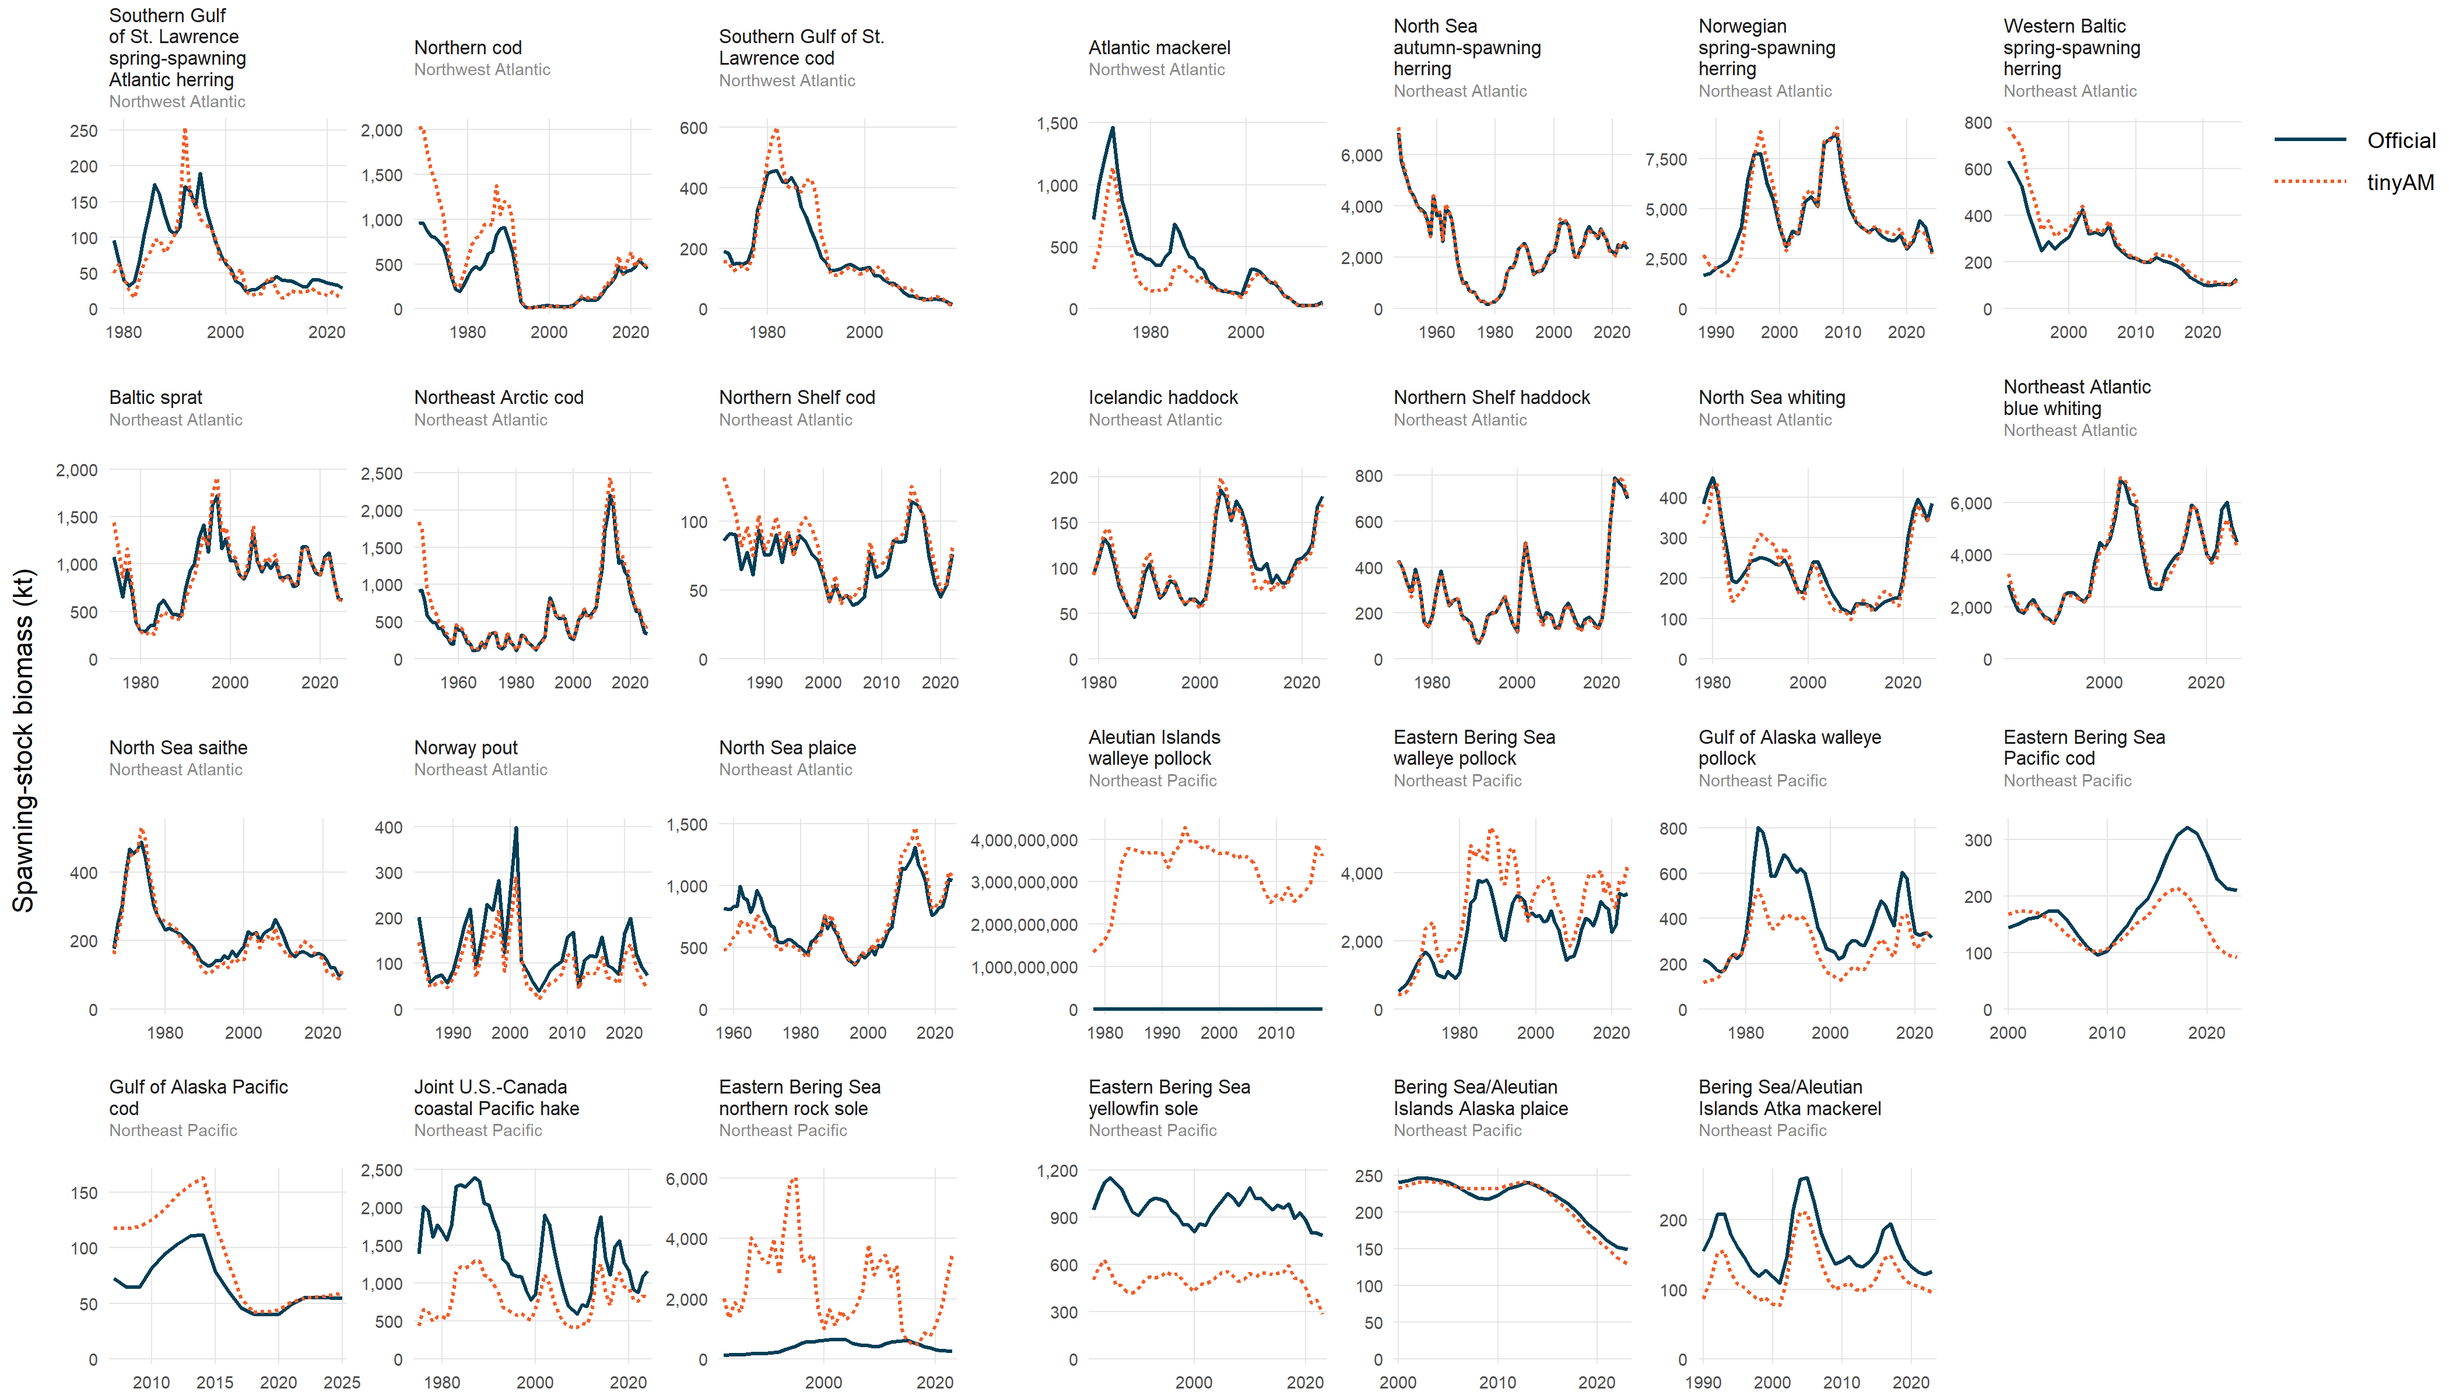
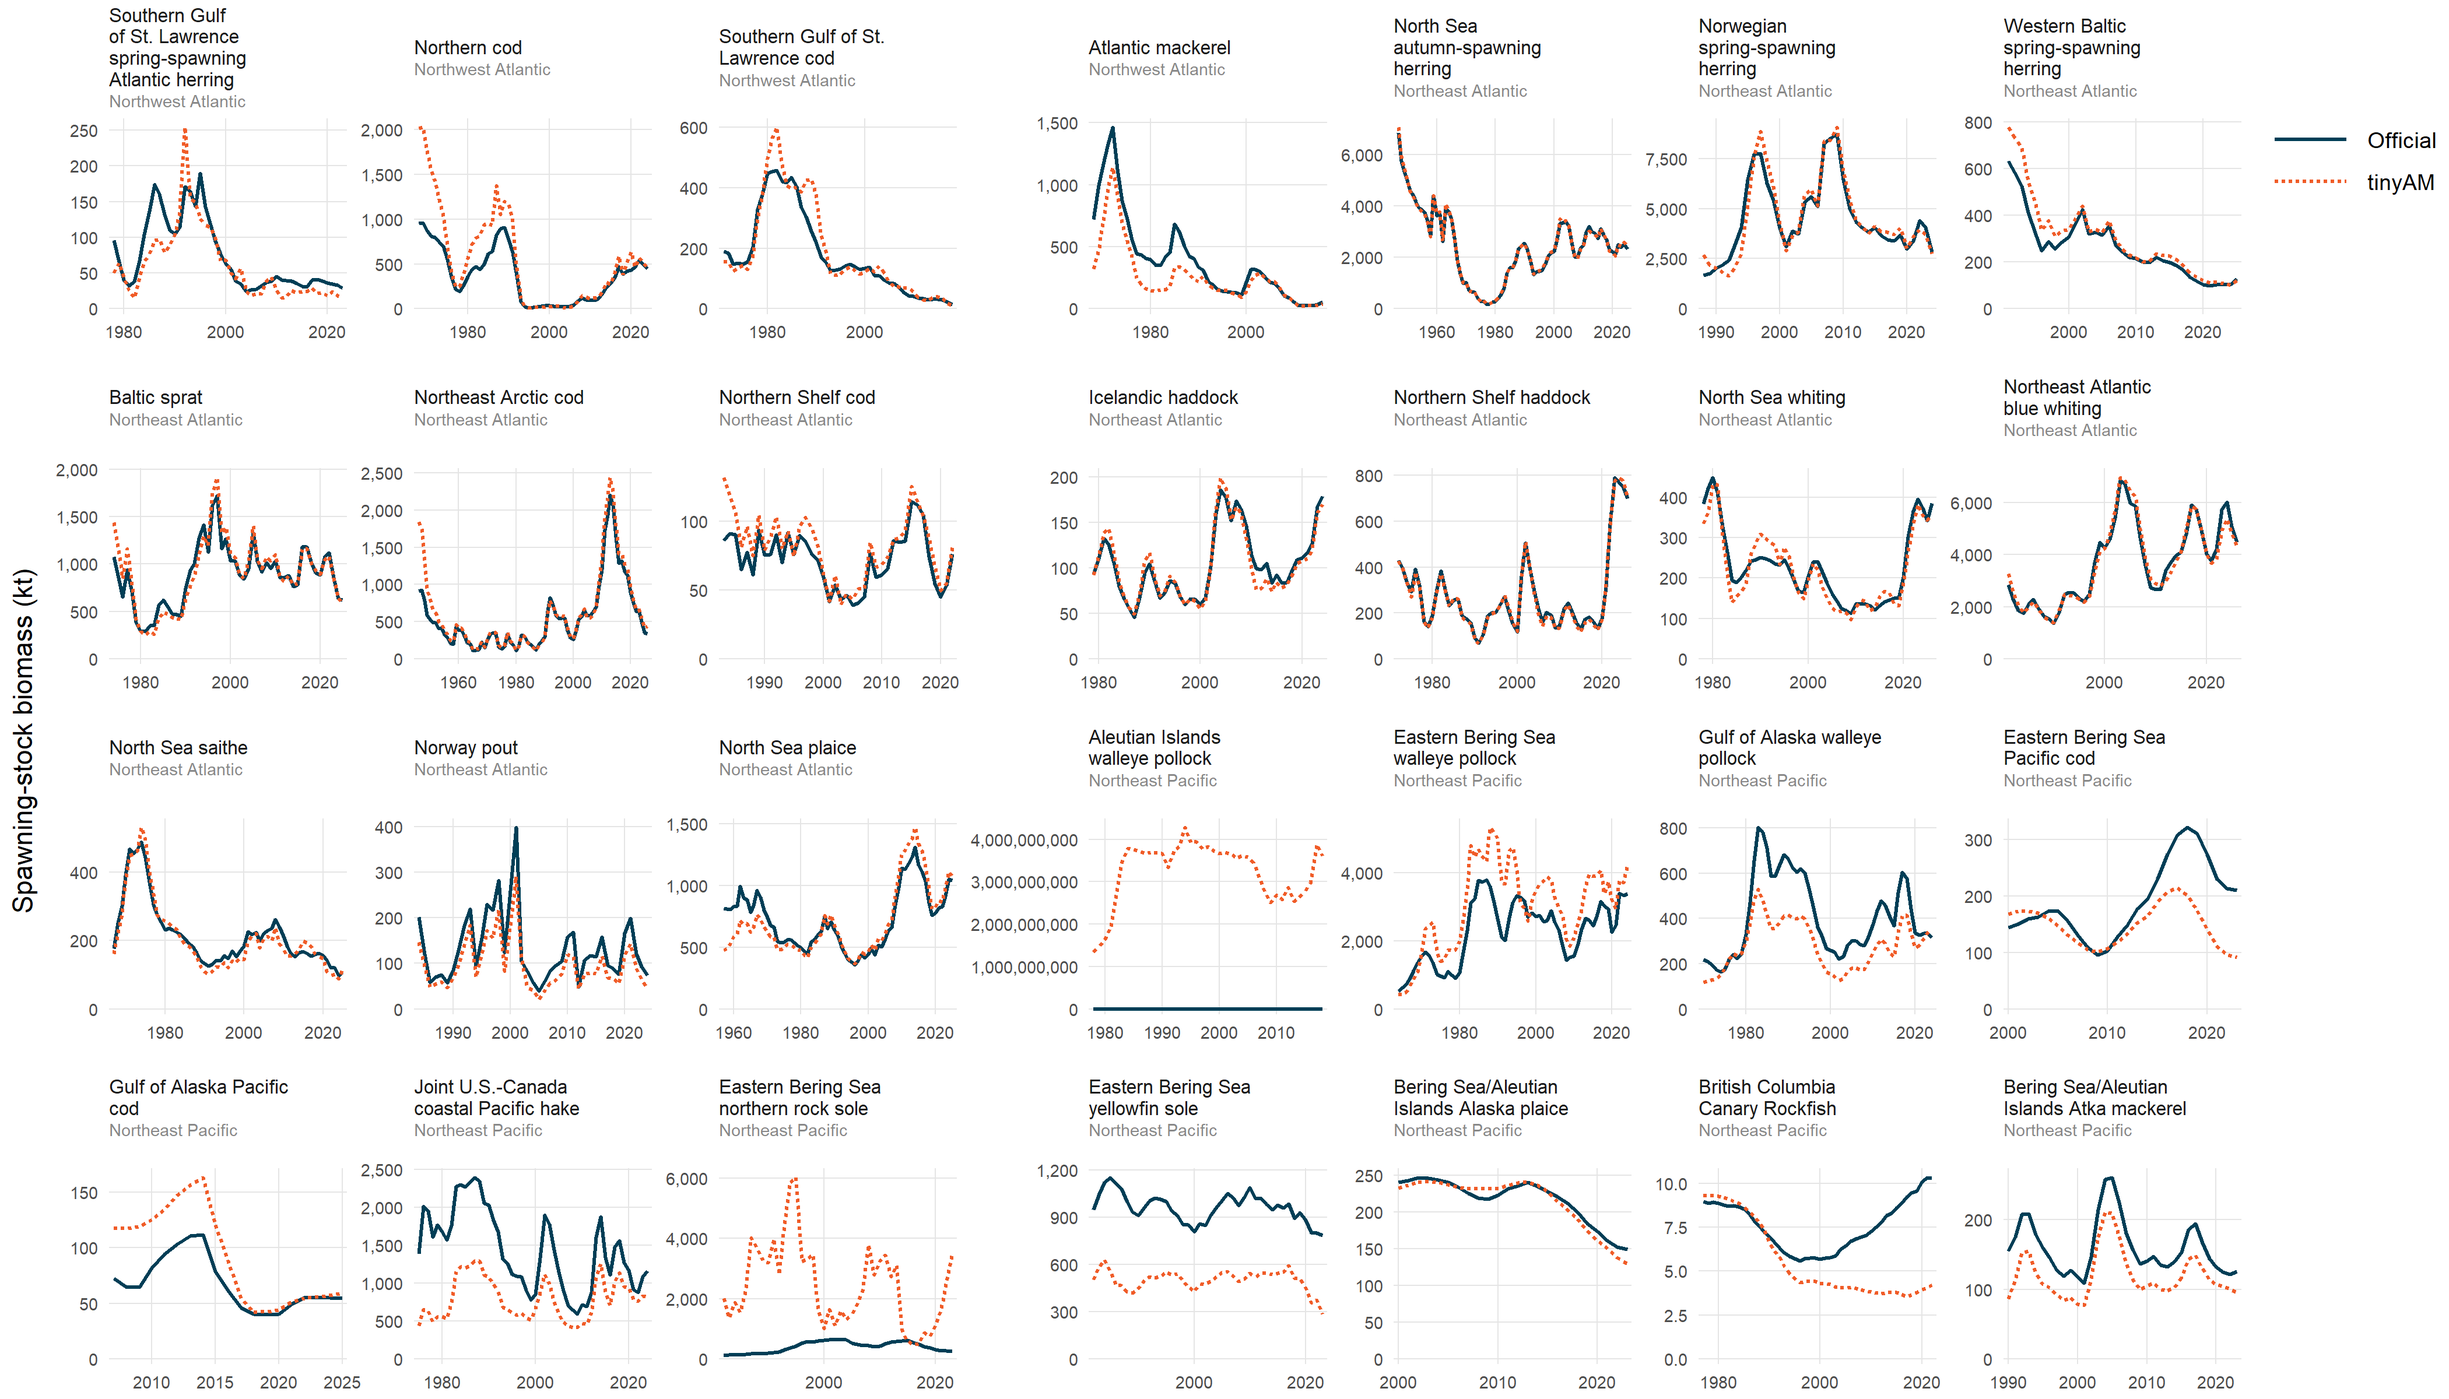
Record Canary fit diagnostics, comparison dashboard and validation

diff --git a/analysis/comp_assessments/source_reviews/dfo_canary_bc.md b/analysis/comp_assessments/source_reviews/dfo_canary_bc.md
@@ -142,5 +142,66 @@ had completed two logged iterations. This is **an incomplete execution, not
 evidence of numerical non-convergence or scientific disagreement**. No source
 start or SD report was obtained. The attempt record and transcript remain
 local; this checkpoint preserves the candidate code in Git. A practical
-constant-recruitment-mean alternative will be evaluated separately with normal
+constant-recruitment-mean alternative was evaluated separately with normal
 package starts, keeping observations and all other settings identical.
+
+## Retained practical translation — 2026-10-17
+
+The retained recipe uses age-1 IID recruitment around a constant log mean,
+with fixed SD 0.9. It does not reproduce the source stock–recruit relationship,
+steepness prior, recruitment sum constraint or varying bias adjustment. This
+is a computationally practical approximation, not evidence that constant
+recruitment is preferable scientifically. The earlier candidate remains in
+commit `442d89e`; its incomplete execution is recorded separately.
+
+Normal package starts failed numerical checks (optimizer code 1, false
+convergence, maximum gradient 2,148 and non-positive-definite Hessian).
+The single permitted retry kept all data and formulas identical, using a
+survivorship profile scaled to first-year official SSB and female M for
+initialization only. This is not a recovered official N-at-age estimate.
+The retry converged: optimizer code 0, objective 1,726.629, maximum gradient
+0.000333, successful SD report and positive-definite Hessian. Default and
+retry took about 310 and 143 seconds respectively; both diagnostics are cached.
+
+Numerical convergence does **not** imply agreement with the assessment:
+
+| Metric | Comparison | Mean absolute % difference | Median absolute % difference | Terminal % difference | Trend correlation |
+|---|---|---:|---:|---:|---:|
+| Female SSB | Approximate, 1977–2022 | 27.91 | 23.98 | -59.09 | 0.295 |
+| Female M | Matching constant instantaneous M | 36.51 | 36.51 | -36.51 | Undefined: constant |
+
+Both comparisons trigger the review flags. Repeated age/year M values represent
+one shared parameter; their large row count is not additional validation.
+N/F-at-age, annual recruitment and total abundance comparisons remain unavailable
+or non-equivalent; missing statistics are not passes. Beginning-2023 SSB is
+displayed as boundary context and excluded from historical summary statistics.
+
+Important limitations are the joint-composition likelihood replacement,
+omission of aggregate-only indices and catches in years without ages,
+pooled-fleet age allocation, simplified selectivity, free initial ages and
+recruitment/M-prior approximations. These are plausible explanations to
+investigate, not demonstrated causes of disagreement. Observations were not
+rescaled to improve agreement and no core model mathematics changed.
+
+The dashboard and fitted object are in the gitignored
+`results/cache/dfo_canary_bc_2022/` directory. The three compact shared result
+tables include this case while retaining other stocks' results.
+
+## Final validation
+
+Source and translation tests pass, including joint-sex biomass conversion,
+effective maturity, source uncertainty, missing observations and preparation
+without fitting. Database validation passes, and all pre-existing canonical
+records and compact fit/comparison rows are unchanged. The Official–tinyAM
+dashboard renders; the heatmap and four trend figures include the new case.
+
+All 67 assessment-analysis test files were run: 61 pass and the same six
+baseline failures remain (age subsets, Southern Gulf herring translation,
+F-process translations, herring translation, Norway-pout translation and the
+general translation fixture). The worker test passes outside the sandbox;
+its initial local connection failure was environmental. The full package
+suite passes with one interactive-only skip. `R CMD check --no-manual
+--no-tests` finishes with zero errors, zero warnings and the existing
+`plot_bubbles`/`head` NOTE; tests ran separately. The successful check used
+installed libraries outside the sandbox after the initial check could not
+see those dependencies. No core package sources changed.

diff --git a/analysis/comp_assessments/PACIFIC_REVIEW.md b/analysis/comp_assessments/PACIFIC_REVIEW.md
@@ -1,6 +1,8 @@
 # Pacific expansion review
 
-The database has 35 current detailed stock records, including twelve additional Pacific cases. Nine new cases historically received actual optimization attempts. BC POP is now source-output blocked despite a numerical pass. The current status is four numerical passes, three non-converged fits, one interrupted run and four source blockers. Seven active new-case dashboards and the historical BC trial are cached locally. This falls short of twelve runnable translations; blocked guards are not counted as fitted recipes.
+The database has 36 current detailed stock records. The original twelve-case Pacific expansion has four numerical passes, three non-converged fits, one interrupted run and four source blockers. Nine of those cases historically received optimization attempts; BC POP is now source-output blocked despite a numerical pass. Seven active expansion dashboards and the historical BC trial are cached locally. This falls short of twelve runnable translations; blocked guards are not counted as fitted recipes.
+
+The subsequent BC Canary Rockfish case is labelled Additional below and does not replace or complete an original expansion case. Its female translation passes after one source-informed initialization retry, but SSB has mean absolute difference 27.9%, terminal difference -59.1% and correlation 0.295; estimated M is 36.5% lower. Its source review and dashboard document the approximations and unavailable N/F/recruitment comparisons. No observations were adjusted to improve agreement.
 
 The initial expansion retained existing stock specifications. The subsequent source/model review updates hake and BC POP mortality treatment, North Sea saithe initial abundance and Baltic sprat spawning time; other existing comparisons remain retained results. New diagnostics and comparisons come from the documented default-first attempts. Source additions were committed before their translation/readiness records and pushed separately. No core model mathematics changed.
 
@@ -109,6 +111,8 @@ The related saithe free-initial-abundance change improves all five comparable co
 | New: Eastern Bering Sea Pacific cod | Total N |   19 | -28.8 | 0.861 | matched | Pooled empirical catch-age key and selectivity simplification |
 | New: Eastern Bering Sea Pacific cod | Recruitment | 35.6 | 20.9 | 0.697 | matched | Pooled empirical catch-age key and selectivity simplification |
 | New: Eastern Bering Sea Pacific cod | SSB | 21.7 | -56.7 | 0.581 | approximate | Pooled empirical catch-age key and selectivity simplification |
+| Additional: British Columbia Canary Rockfish | M | 36.5 | -36.5 | — | matched; estimated | Female approximation; joint likelihood, aggregate-only inputs and source recruitment differ |
+| Additional: British Columbia Canary Rockfish | SSB | 27.9 | -59.1 | 0.295 | approximate | Female approximation; joint likelihood, aggregate-only inputs and source recruitment differ |
 
 Constant M series have no defined temporal correlation. A fixed approximation to source-estimated M is labelled explicitly; equality is not evidence that tinyAM estimated M successfully.
 
@@ -162,6 +166,7 @@ Each entry below lists missing or incompatible core comparisons. Constant-series
 | New: British Columbia Pacific ocean perch | SSB: no fitted statistics; Recruitment: no fitted statistics; Total N: no fitted statistics; N-at-age: no fitted statistics; F-at-age: no fitted statistics; M: no fitted statistics |
 | New: Aleutian Islands Pacific cod | SSB: no fitted statistics; Recruitment: no fitted statistics; Total N: no fitted statistics; N-at-age: no fitted statistics; F-at-age: no fitted statistics; M: no fitted statistics |
 | New: Bering Sea and Aleutian Islands arrowtooth flounder | SSB: no fitted statistics; Recruitment: no fitted statistics; Total N: no fitted statistics; N-at-age: no fitted statistics; F-at-age: no fitted statistics; M: no fitted statistics |
+| Additional: British Columbia Canary Rockfish | F-at-age: unavailable; N-at-age: unavailable; Total N: non_equivalent; Recruitment: non_equivalent |
 
 ## Fixed-M input checks
 

diff --git a/analysis/comp_assessments/CAPABILITY_GAPS.md b/analysis/comp_assessments/CAPABILITY_GAPS.md
@@ -2,24 +2,43 @@
 
 ## Pacific expansion: current coverage and findings
 
-The database now contains **35 current detailed stock records**, including the
+The database now contains **36 current detailed stock records**, including the
 twelve Pacific additions documented in [PACIFIC_REVIEW.md](PACIFIC_REVIEW.md).
 Completeness remains partial where source information is unresolved. Nine new
 cases received optimization attempts. BC POP subsequently became source-output
 blocked despite passing numerical checks: constant M and boundary summaries do
-not provide a historical population comparison. The current twelve-case status
+not provide a historical population comparison. The original twelve-case status
 is four numerical passes, three non-converged fits, one interrupted run and four
 source blockers. Seven active new-case dashboards and the historical BC trial
 are cached locally. Neither twelve runnable translations nor twelve successful
 replications have been achieved.
 
 The subsequent BC petrale import adds a **partial 2024 summary/output record**:
-36 stocks and 42 assessment records in total, still 35 current detailed cases.
+At that checkpoint there were 36 stocks and 42 assessment records in total,
+still 35 current detailed cases.
 It preserves annual SSB subset summaries, published reference values and three
 reported M scalars. Original observations, biology and configuration remain
 missing, so it is non-current and source-blocked, not a completed replacement
 or an additional fitted case. This is a data-availability limitation; the
 recovered summary alone does not establish a new unsupported model feature.
+
+The subsequent **BC Canary Rockfish 2022** import brings coverage to 37 stocks,
+43 assessment records and 36 current detailed cases. It recovers native
+two-sex inputs, fixed biology, annual female SSB posterior-subset summaries
+and published sex-specific M. The practical female translation converges
+after one documented source-informed initialization retry, but SSB agreement
+is poor (mean absolute difference 27.9%, terminal difference -59.1%, correlation
+0.295), and M is 36.5% lower. This additional case does not resolve the original
+twelve-case shortfalls. See the [source review](source_reviews/dfo_canary_bc.md).
+
+Canary reinforces the limits of replacing joint-sex age compositions and biomass
+totals with independent female age observations. Four aggregate-only indices
+and catches without age samples cannot enter the current age-specific
+likelihood. Fixed biology can be recovered without refitting source states;
+the executable's effective first-mature-age cutoff must also be preserved.
+Native N/F-at-age and recruitment are still missing. An initial 60-age
+Beverton–Holt candidate was stopped for runtime before an optimizer result;
+this is an incomplete experiment, not a demonstrated mathematical defect.
 
 - **Original likelihoods:** the new assessments generally fit total biomass and
   multinomial, Dirichlet-multinomial or correlated age/length compositions.

diff --git a/analysis/comp_assessments/PACIFIC_EXPANSION.md b/analysis/comp_assessments/PACIFIC_EXPANSION.md
@@ -170,3 +170,35 @@ with `--no-manual --no-tests` has zero errors, zero warnings and the existing
 locale after an initial inherited-locale failure. No core package code or
 model specification changed, and all pre-existing canonical values and
 comparison/fit diagnostics remain unchanged.
+
+## BC Canary import and translation — 2026-10-17
+
+`dfo_canary_bc_2022` adds the official coastwide Run24 inputs and available
+outputs, bringing the database to 37 stocks, 43 assessment records and 36
+current detailed cases. Source files, matching fixed-biology evaluation and
+SSB posterior draws are cached with provenance. All prior canonical records
+are unchanged. Completeness remains partial: official numerical N/F-at-age,
+annual recruitment and full posterior draws were not recovered.
+
+The female 1977–2022, ages 1–60+ translation preserves joint-sex denominators
+when converting sampled catch/survey biomass to female numbers. Missing ages
+are not filled; aggregate-only indices are omitted. Its background and
+[source review](source_reviews/dfo_canary_bc.md) describe the simplified
+likelihood, recruitment, selectivity, M prior and initialization.
+
+Default starts failed; the one permitted source-informed retry converged
+(maximum gradient 0.000333; successful SD report, positive-definite Hessian).
+SSB mean absolute difference is 27.91%, terminal difference -59.09% and
+correlation 0.295. Female M is 36.51% lower, with no defined temporal
+correlation for the constant source series. These are flagged limitations,
+not a successful reproduction of the assessment. Other population comparisons
+remain missing or non-equivalent. The dashboard and initialization histories
+are cached, and compact result tables retain existing stocks' results.
+
+Both new-case tests and database validation pass. All 67 assessment-analysis
+files were run: 61 pass, with the same six baseline failures. The full package
+suite passes with one interactive-only skip; package checking with
+`--no-manual --no-tests` has zero errors, zero warnings and the existing
+`plot_bubbles`/`head` NOTE. Tests ran separately. Dashboard and plot exports
+were verified, retaining ocean/species order, seven columns, four rows and
+the smaller grey ocean labels. No core model mathematics changed.
